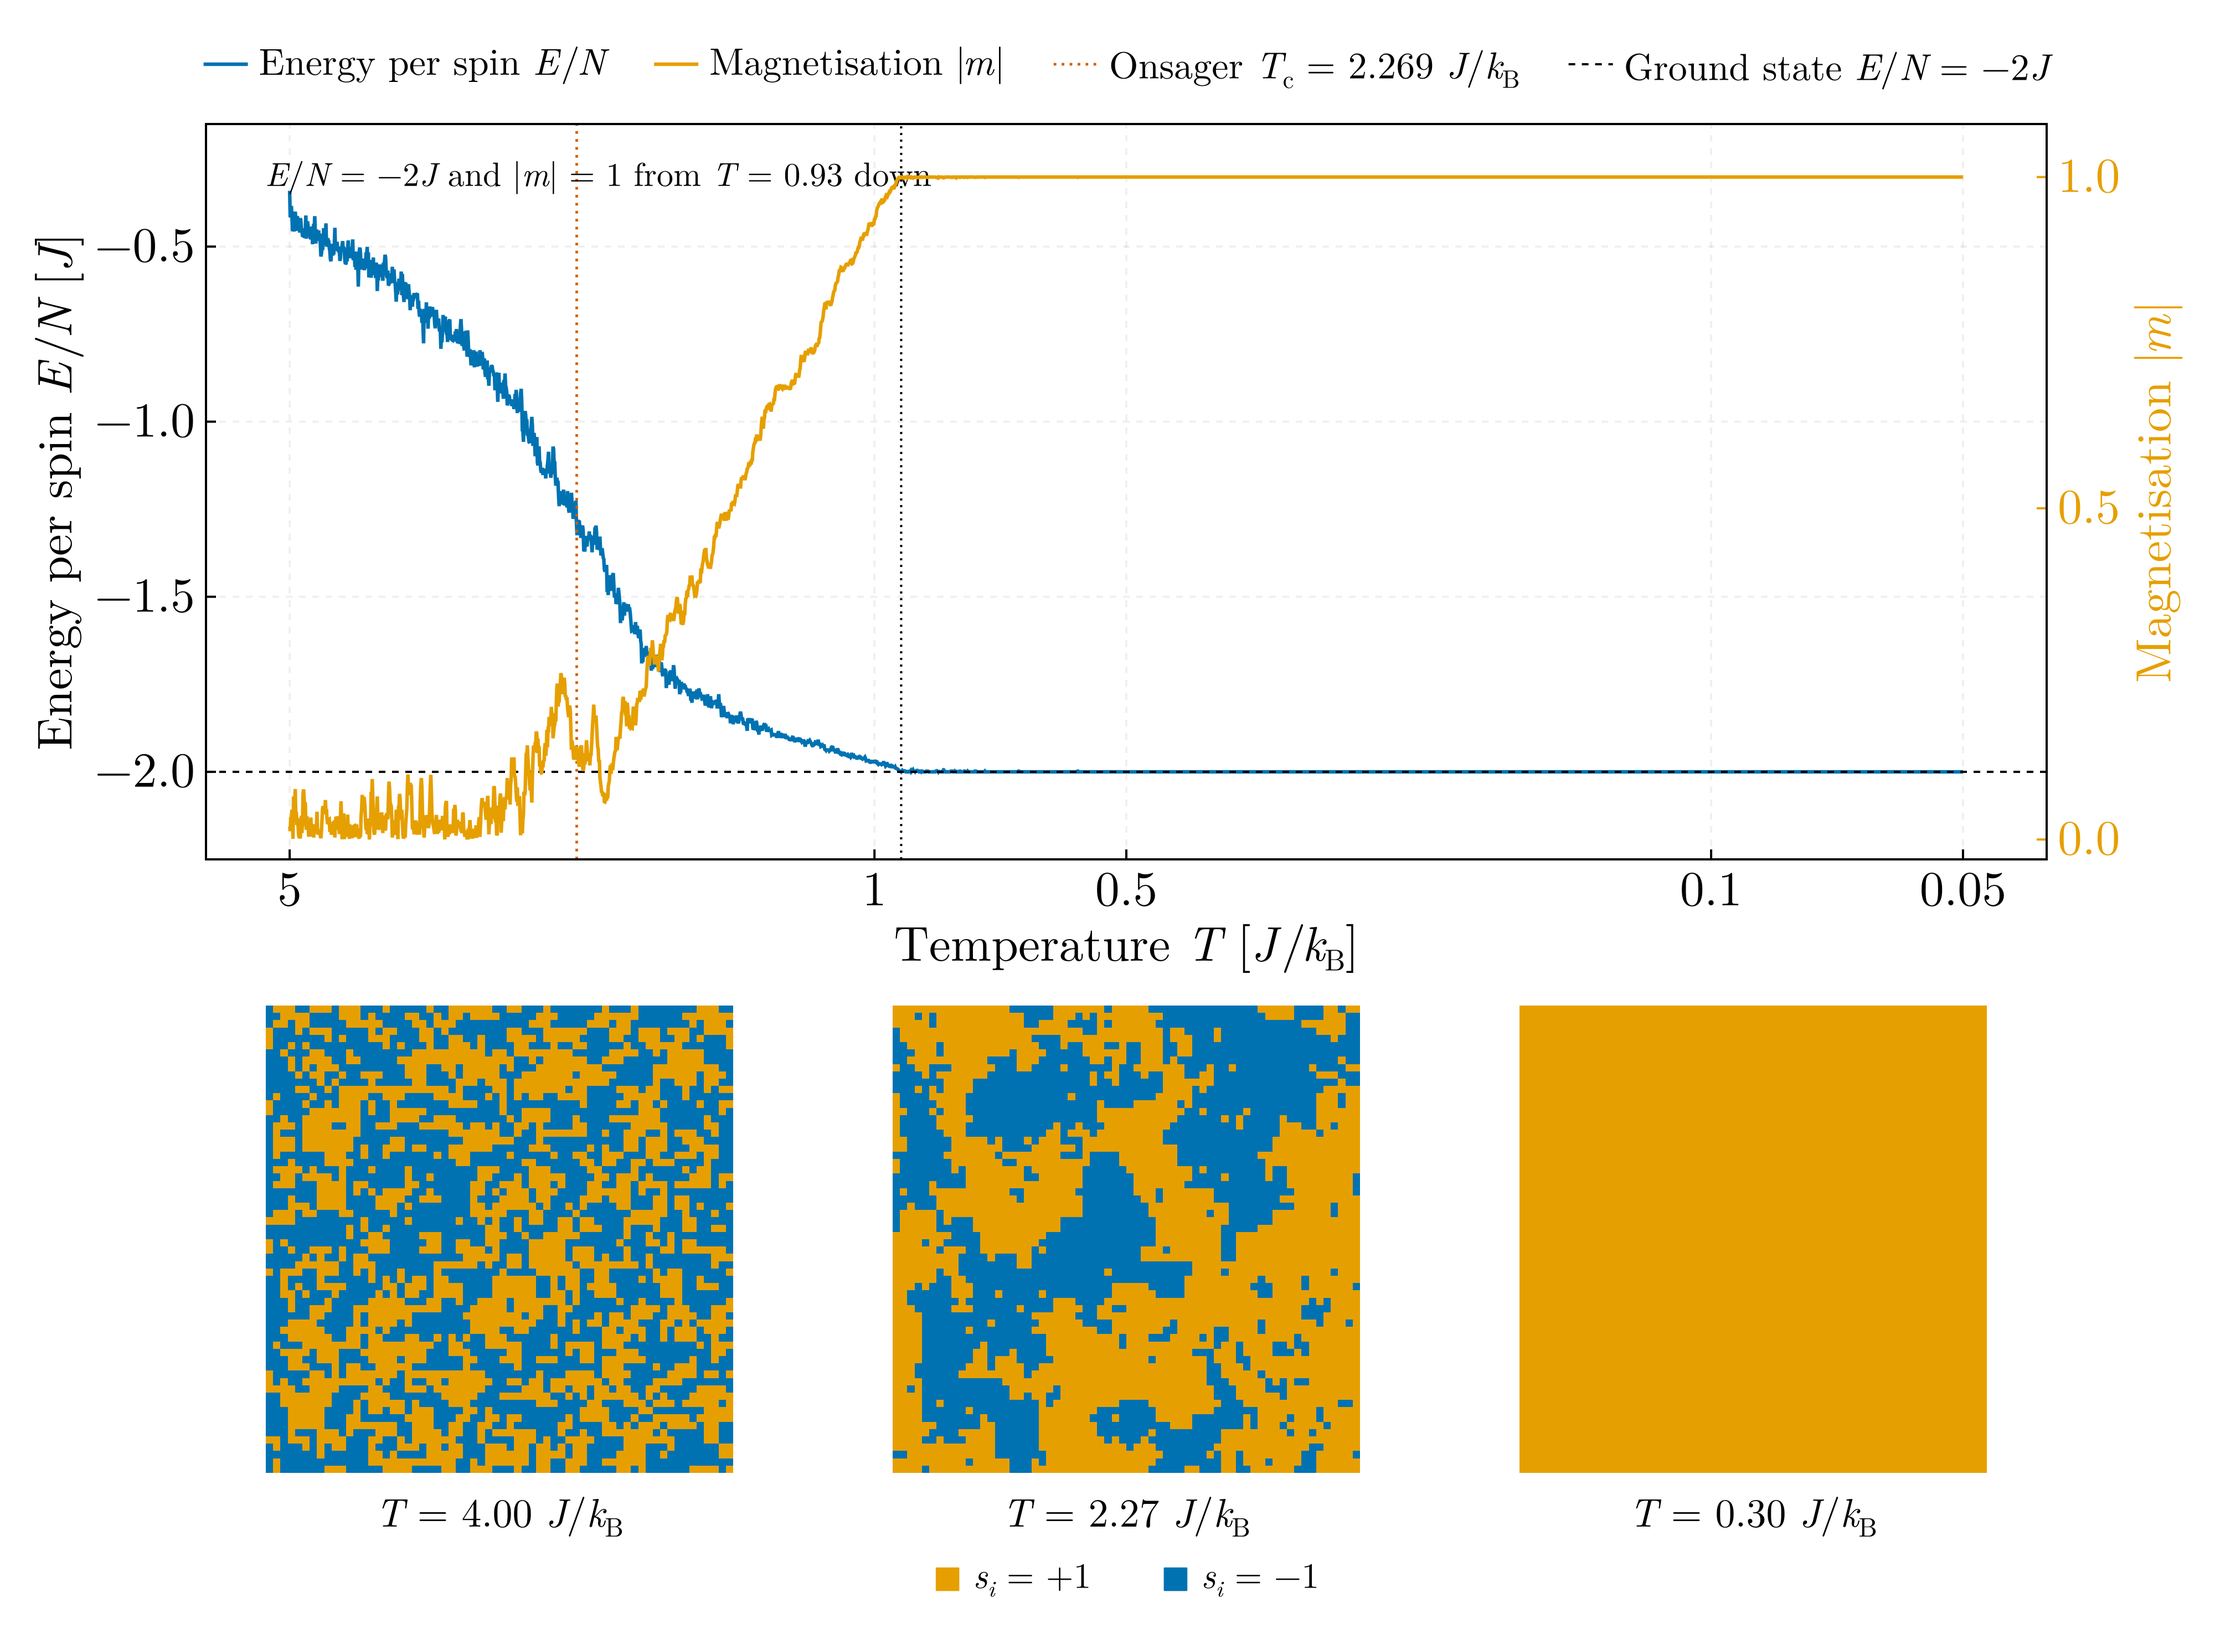
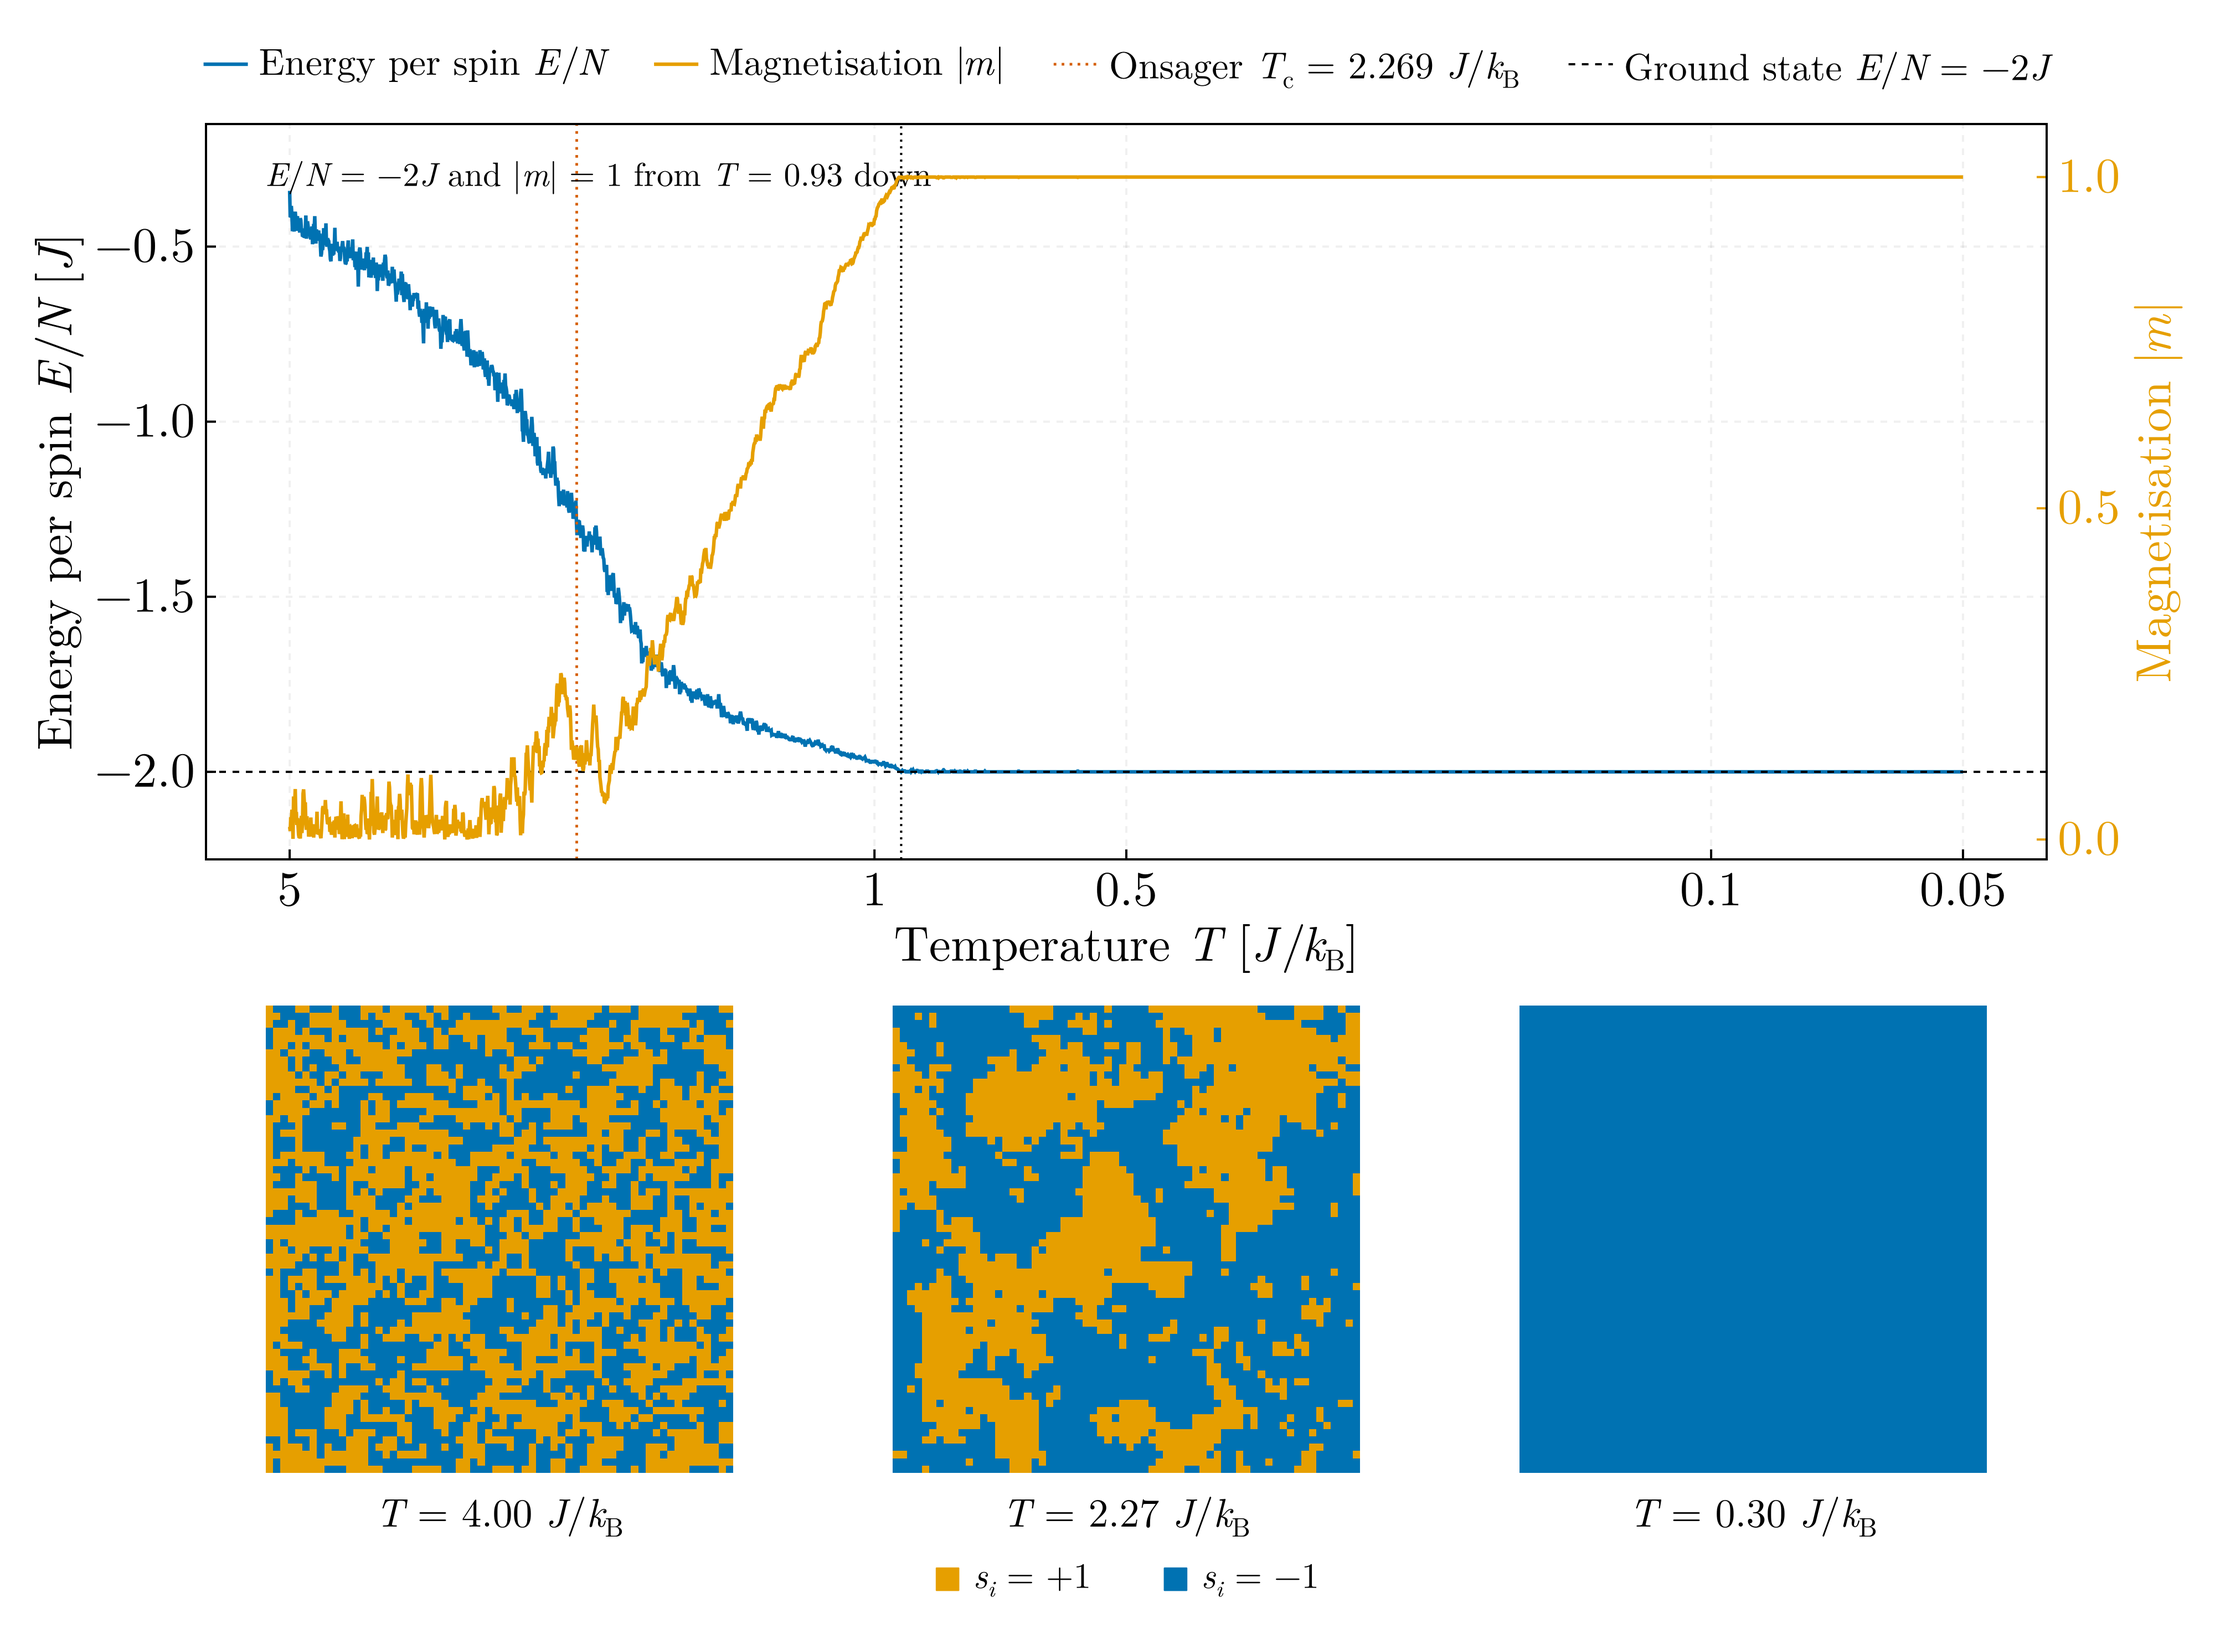
fix(msc/05, bsc/04): no distance error on the reference galaxy; the spin key
msc/05: the distances are d = D_ref s_ref/s. For the reference galaxy that is
D_ref identically, its own apparent size cancelling, so it carries no distance
error. Hubble.jl had sigma_d = 0 for it; the port ran it through the same
propagation as the others and gave it 2.3 Mpc. With it removed the fit goes
from 73.1 +- 11.4 to 70.4 +- 5.6 km/s/Mpc. The README also said the original
left the distance errors out of the fit. It did not: it weighted by
1/(sigma_v sigma_d)^2, which is wrong in a different way, and the text now
says so.

bsc/04: the lattice colormap ran orange to blue over (-1, +1) while the key
printed orange as s = +1. The colormap is reversed to match the key, in the
figure and in the animation.

Changed region(s): [[0.0938, 0.5905, 0.3438, 0.9014], [0.375, 0.5905, 0.625, 0.9014], [0.6875, 0.5905, 0.9062, 0.9014]]

diff --git a/msc/05-nuclear-particle-physics/README.md b/msc/05-nuclear-particle-physics/README.md
@@ -47,7 +47,7 @@ Replaced by linear interpolation between the bracketing samples.
 H₀ from three galaxies, with redshifts from five reference lines and distances
 from apparent size relative to a standard.
 
-**H₀ = 73.1 ± 11.4 km s⁻¹ Mpc⁻¹**, a Hubble time of 13.4 Gyr — consistent with
+**H₀ = 70.4 ± 5.6 km s⁻¹ Mpc⁻¹**, a Hubble time of 13.9 Gyr — consistent with
 both Planck (67.4 ± 0.5) and SH0ES (73.0 ± 1.0). The measured recession
 velocities are good: 745, 936 and 2827 km s⁻¹ against catalogue values near 727,
 897 and 2820.
@@ -59,8 +59,12 @@ Two corrections:
   was overwritten every iteration and kept only the last term, so every averaged
   redshift uncertainty was too small by roughly √n, and the fit weights derived
   from them were wrong.
-- **The distance errors were left out of the fit.** They dominate here: σ_d/d
-  runs to 30 %. Weighting by velocity errors alone gives H₀ = 89.1 ± 2.0, because
-  the distant, poorly-measured galaxy is over-weighted. Using the effective
-  variance σ_v² + H₀²σ_d², iterated to convergence, gives 73.1 ± 11.4 — a
-  different central value *and* an honest uncertainty.
+- **The distance errors entered the fit the wrong way.** The original weighted
+  each galaxy by `1/(σ_v σ_d)²`, a product of two variances that is not the
+  variance of anything. They dominate here: σ_d/d runs to 30 %. Weighting by
+  velocity errors alone gives H₀ = 89.1 ± 2.0, because the distant,
+  poorly-measured galaxy is over-weighted. Using the effective variance
+  σ_v² + H₀²σ_d², iterated to convergence, gives 70.4 ± 5.6 — a different central
+  value *and* an honest uncertainty. The reference galaxy carries no distance
+  error, as in the original: its distance is the input, and its own apparent
+  size cancels out of it.

diff --git a/README.md b/README.md
@@ -122,7 +122,7 @@ fails. A perturbation of 10⁻¹² changes y(100) from 0 to 59.7. The 2021 file 
 | S_n(²³⁶U) | 6.546 MeV |
 | Prompt-neutron spectrum temperature | 1.295 and 1.360 MeV (lab), 0.800 and 0.841 (CM) |
 | Prompt-neutron pair multiplicity | 2.573 (evaluated 2.42) |
-| H₀ from three galaxies | 73.1 ± 11.4 km s⁻¹ Mpc⁻¹ |
+| H₀ from three galaxies | 70.4 ± 5.6 km s⁻¹ Mpc⁻¹ |
 | H₀ from H(z), flat ΛCDM | 73.3 ± 5.1 km s⁻¹ Mpc⁻¹, Ω_m = 0.267 ± 0.064 |
 | Tessar objective focal length | 50.79 mm |
 | ¹²⁸I γ line, from a NaI(Tl) calibration | 441.1 ± 12.1 keV (accepted 442.9) |
